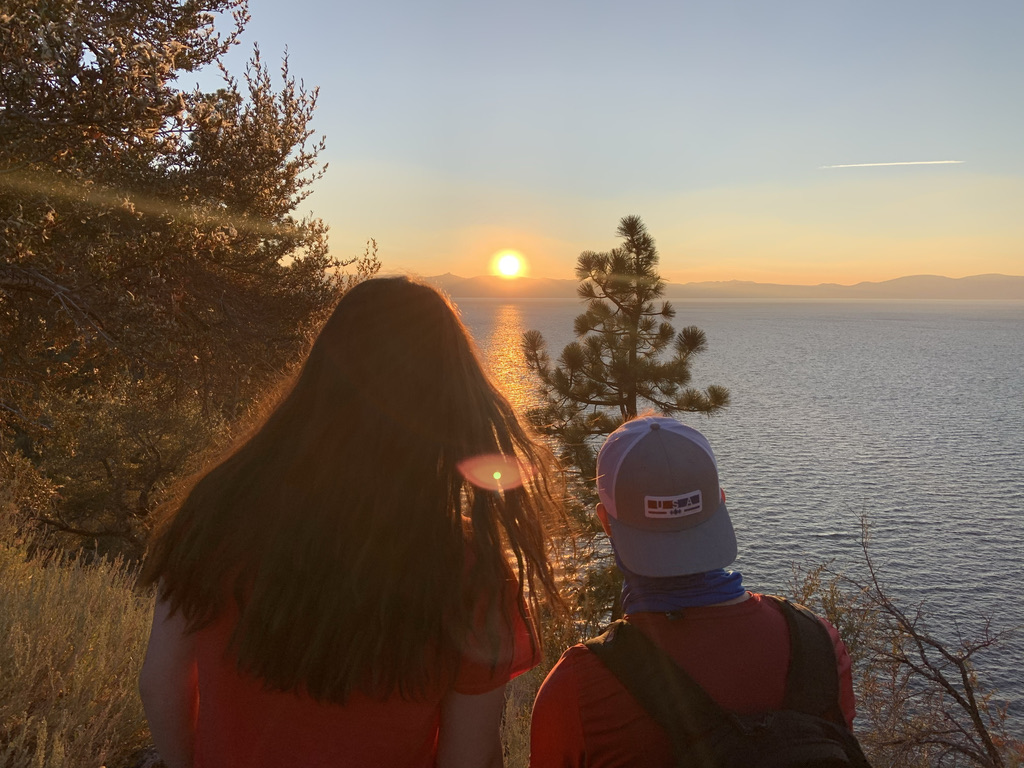
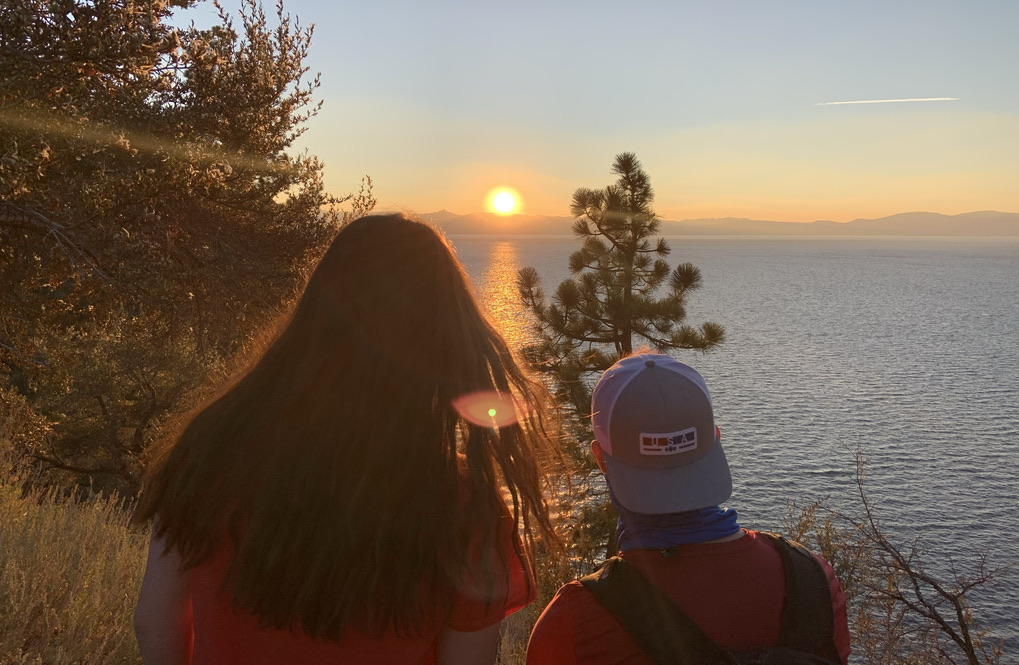
image resizing and fix for cards formatting (looks better on mobile)

diff --git a/src/components/component-parts/Card.js b/src/components/component-parts/Card.js
@@ -1,50 +1,32 @@
 import { React } from "react";
 
-import Card from "@mui/material/Card";
-import CardContent from "@mui/material/CardContent";
-import CardMedia from "@mui/material/CardMedia";
-import Typography from "@mui/material/Typography";
-import { CardActionArea } from "@mui/material";
+import {
+  CardActionArea,
+  Typography,
+  CardMedia,
+  CardContent,
+  Card,
+} from "@mui/material";
+import "./Card.css"
 
 export function ActionAreaCard({ href, image, title, description }) {
-  /*
-  these need to be changed, light mode the borders disapear, may also want to reposition them here.
-  So they go from row to row instead of column.
-  */
-  const card = {
-    height: "auto",
-    width: "500px",
-    maxWidth: "30vw"
-  };
 
-  const imageStyle = {
-    height: card.height / 2,
-    width: card.maxWidth / 2,
-    alignItems:'center',
-    justifyContent:'center',
-
-  };
-
-  const cardContentStyle = {
-    height: "auto",
-    width: "auto",
-    alignItems:'center',
-    justifyContent:'center',
-  };
-
+  // theres a wierd bug here where if it 
+  //gets to a certain size it will go vertically but 
+  //then making it smaller makes it go back to the grid 😕
   return (
-    <Card style={card}>
-      <CardActionArea href={href}>
-        <CardMedia component="img" image={image} style={imageStyle} />
-        <CardContent style={cardContentStyle}>
-          <Typography variant="h5" component="div">
-            {title}
-          </Typography>
-          <Typography variant="body2" color="black">
-            {description}
-          </Typography>
-        </CardContent>
-      </CardActionArea>
-    </Card>
+      <Card>
+        <CardActionArea href={href}>
+          <CardMedia image={image} className="imageStyle"/>
+          <CardContent className="cardContentStyle">
+            <Typography component="div" fontWeight={"bold"}>
+              {title}
+            </Typography>
+            <Typography component="div" variant="caption" className="card">
+              {description}
+            </Typography>
+          </CardContent>
+        </CardActionArea>
+      </Card>
   );
 }

diff --git a/src/components/component-parts/PageTheme.js b/src/components/component-parts/PageTheme.js
@@ -5,7 +5,6 @@ import {useBetween} from "use-between"
 import { faMoon } from "@fortawesome/free-regular-svg-icons";
 import { FontAwesomeIcon } from "@fortawesome/react-fontawesome";
 import { faCloudMoon } from "@fortawesome/free-solid-svg-icons";
-import { getThemeProps } from "@mui/system";
 
 const useThemeStates = () => {
   var storedTheme = localStorage.getItem("theme");
@@ -28,12 +27,11 @@ const useThemeStates = () => {
 
   return {theme, checkedState, toggleStates}
 }
-
 export const useSharedTheme = () => useBetween(useThemeStates);
 
 export function ControlTheme() {
 
-  const {checkedState, toggleStates} = useSharedTheme();
+  const {checkedState, toggleStates} = useThemeStates();
 
   return (
     <ReactSwitch

diff --git a/src/components/NavMenu.css b/src/components/NavMenu.css
@@ -1,13 +1,13 @@
 .header-light {
   margin: 0 auto;
   text-align: center;
-  background: rgb(55, 55, 200);
+  background: rgb(80, 102, 128);
 }
 
 .header-dark {
   margin: 0 auto;
   text-align: center;
-  background: rgb(20, 20, 90);
+  background: rgb(47, 69, 98);
 }
 
 .center-switch-image {
@@ -40,7 +40,7 @@
 }
 
 .navbar-toggler {
-  color: rgb(20, 20, 90);
+  color: rgb(47, 69, 98);
   width: 100%;
   border: 0px;
   overflow: hidden;
@@ -52,7 +52,7 @@
 }
 
 .dark {
-  background-color: rgb(10, 10, 50);
+  background-color: rgb(8, 27, 51);
   color: white;
 }
 .light {

diff --git a/src/components/NavMenu.js b/src/components/NavMenu.js
@@ -1,7 +1,7 @@
 import { ControlTheme, useSharedTheme } from "./component-parts/PageTheme.js";
-import React, { useState, useEffect, Component } from "react";
+import React, { Component } from "react";
 import { Collapse, Nav, Navbar, NavItem, NavLink, Button } from "reactstrap";
-import { useCycle, useUnmountEffect } from "framer-motion";
+import { useCycle } from "framer-motion";
 import "./NavMenu.css";
 import { FontAwesomeIcon } from "@fortawesome/react-fontawesome";
 import { faBars } from "@fortawesome/fontawesome-free-solid";

diff --git a/src/components/component-parts/Card.css b/src/components/component-parts/Card.css
@@ -1,0 +1,28 @@
+.imageStyle {
+  height: 30vw;
+  width: 30vw;
+}
+.cardContentStyle {
+  height: 15vw;
+  width: 30vw;
+  background-color: rgb(80, 102, 128);
+}
+.card {
+    background-color: rgb(80, 102, 128);
+    border: 0px
+}
+@media only screen and (max-width: 650px) {
+    .card {
+        display: none;
+        
+    }
+}
+
+
+.darkCardContentStyle {
+  height: auto;
+  width: auto;
+  max-width: 30vw;
+  min-width: 30vw;
+  background-color: white;
+}

diff --git a/src/components/Home.js b/src/components/Home.js
@@ -25,7 +25,7 @@ const cardContent = [
   {
     href: "/experience",
     image: require("./Images/bluehill.jpeg"),
-    title: "Personal Experience",
+    title: "Experience",
     description: "Learn about my professional experiences.",
   },
   {
